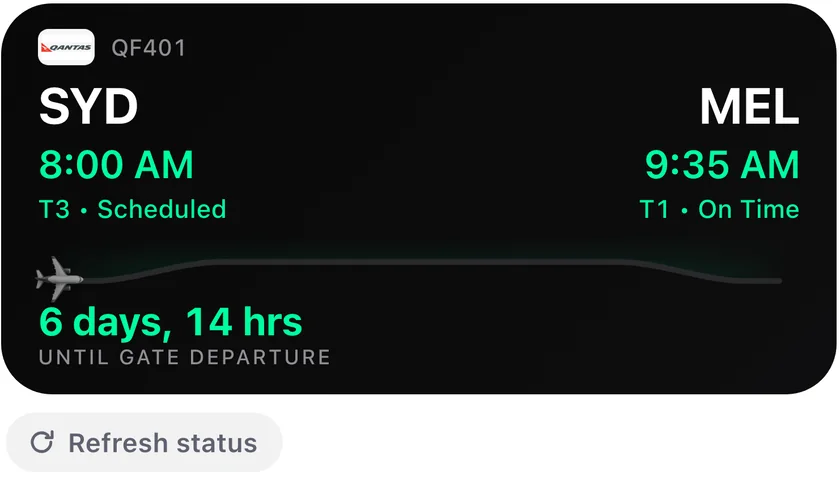
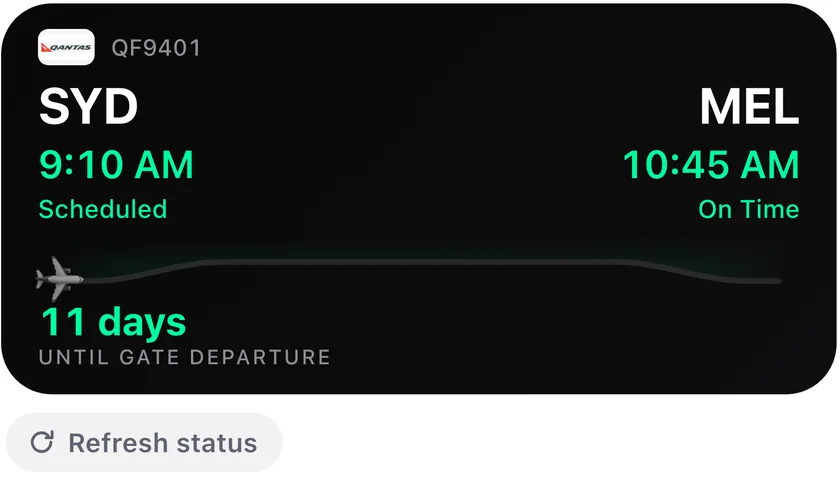
Agent and Siri demos: QF 9401 at 9:10, matching the app
Re-rendered the flight, trip, expenses and add-booking cards from the
same card code with QF9401 SYD 09:10 to MEL 10:45, 11 days out, and the
Hertz pick-up at 11:30 after landing. The chat replies, Siri answer and
alt text follow.

diff --git a/components/home/assistants.tsx b/components/home/assistants.tsx
@@ -28,12 +28,12 @@ const EXCHANGES: Exchange[] = [
     label: "Next flight",
     prompt: "When’s my next flight?",
     tool: "next_flight",
-    reply: "QF401 to Melbourne, Tuesday at 8:00 am from Terminal 3. It’s on schedule.",
+    reply: "QF 9401 to Melbourne, Tuesday 10 November at 9:10 am. It’s on schedule.",
     card: {
       src: "/agents/card-next-flight.webp",
       width: 840,
       height: 480,
-      alt: "TripCache flight card: QF401 Sydney 8:00 AM to Melbourne 9:35 AM, Terminal 3, scheduled, 6 days 14 hours until gate departure.",
+      alt: "TripCache flight card: QF 9401 Sydney 9:10 AM to Melbourne 10:45 AM, scheduled, 11 days until gate departure.",
     },
   },
   {
@@ -69,12 +69,12 @@ const EXCHANGES: Exchange[] = [
     label: "Add a booking",
     prompt: "Add a Hertz car to my Melbourne trip",
     tool: "add_plan_item",
-    reply: "Done. The Hertz rental is on your Melbourne weekend, picked up at the airport on Tuesday.",
+    reply: "Done. The Hertz rental is on your Melbourne weekend, picked up at the airport on Tuesday at 11:30 am.",
     card: {
       src: "/agents/card-plan-added.webp",
       width: 840,
       height: 413,
-      alt: "TripCache confirmation card: Hertz rental car added to Melbourne weekend, pick-up Tue 10 Nov 10:30 AM, drop-off Wed 11 Nov 5:00 PM.",
+      alt: "TripCache confirmation card: Hertz rental car added to Melbourne weekend, pick-up Tue 10 Nov 11:30 AM, drop-off Wed 11 Nov 5:00 PM.",
     },
   },
 ]

diff --git a/components/home/siri.tsx b/components/home/siri.tsx
@@ -12,7 +12,7 @@ import { useInViewPlaying } from "./use-in-view-playing"
  */
 
 const QUESTION = "When’s my next flight in TripCache?"
-const ANSWER = "Your flight QF401 to Melbourne leaves on Tuesday 10 November at 8:00 am, on time."
+const ANSWER = "Your flight QF 9401 to Melbourne leaves on Tuesday 10 November at 9:10 am, on time."
 const QUESTION_WORDS = QUESTION.split(" ")
 
 const PHRASES = [
@@ -59,8 +59,8 @@ function SiriPhone() {
     <div ref={ref} className="relative mx-auto w-full max-w-[290px] sm:max-w-[330px]">
       <figure className="relative aspect-[393/852] overflow-hidden rounded-[52px] border-[10px] border-[#101014] bg-[#101014] shadow-[0_50px_90px_-40px_rgba(45,27,87,0.65)]">
         <figcaption className="sr-only">
-          On iPhone, someone asks Siri “{QUESTION}”. Siri answers “{ANSWER}” and shows the TripCache flight card: QF401, Sydney 8:00 AM to Melbourne
-          9:35 AM, 6 days 14 hours until gate departure.
+          On iPhone, someone asks Siri “{QUESTION}”. Siri answers “{ANSWER}” and shows the TripCache flight card: QF 9401, Sydney 9:10 AM to Melbourne
+          10:45 AM, 11 days until gate departure.
         </figcaption>
         <div aria-hidden="true" className="absolute inset-0 overflow-hidden rounded-[42px]">
           <img src="/agents/siri-wallpaper.webp" alt="" width={560} height={1217} loading="lazy" decoding="async" className="absolute inset-0 size-full object-cover" />
